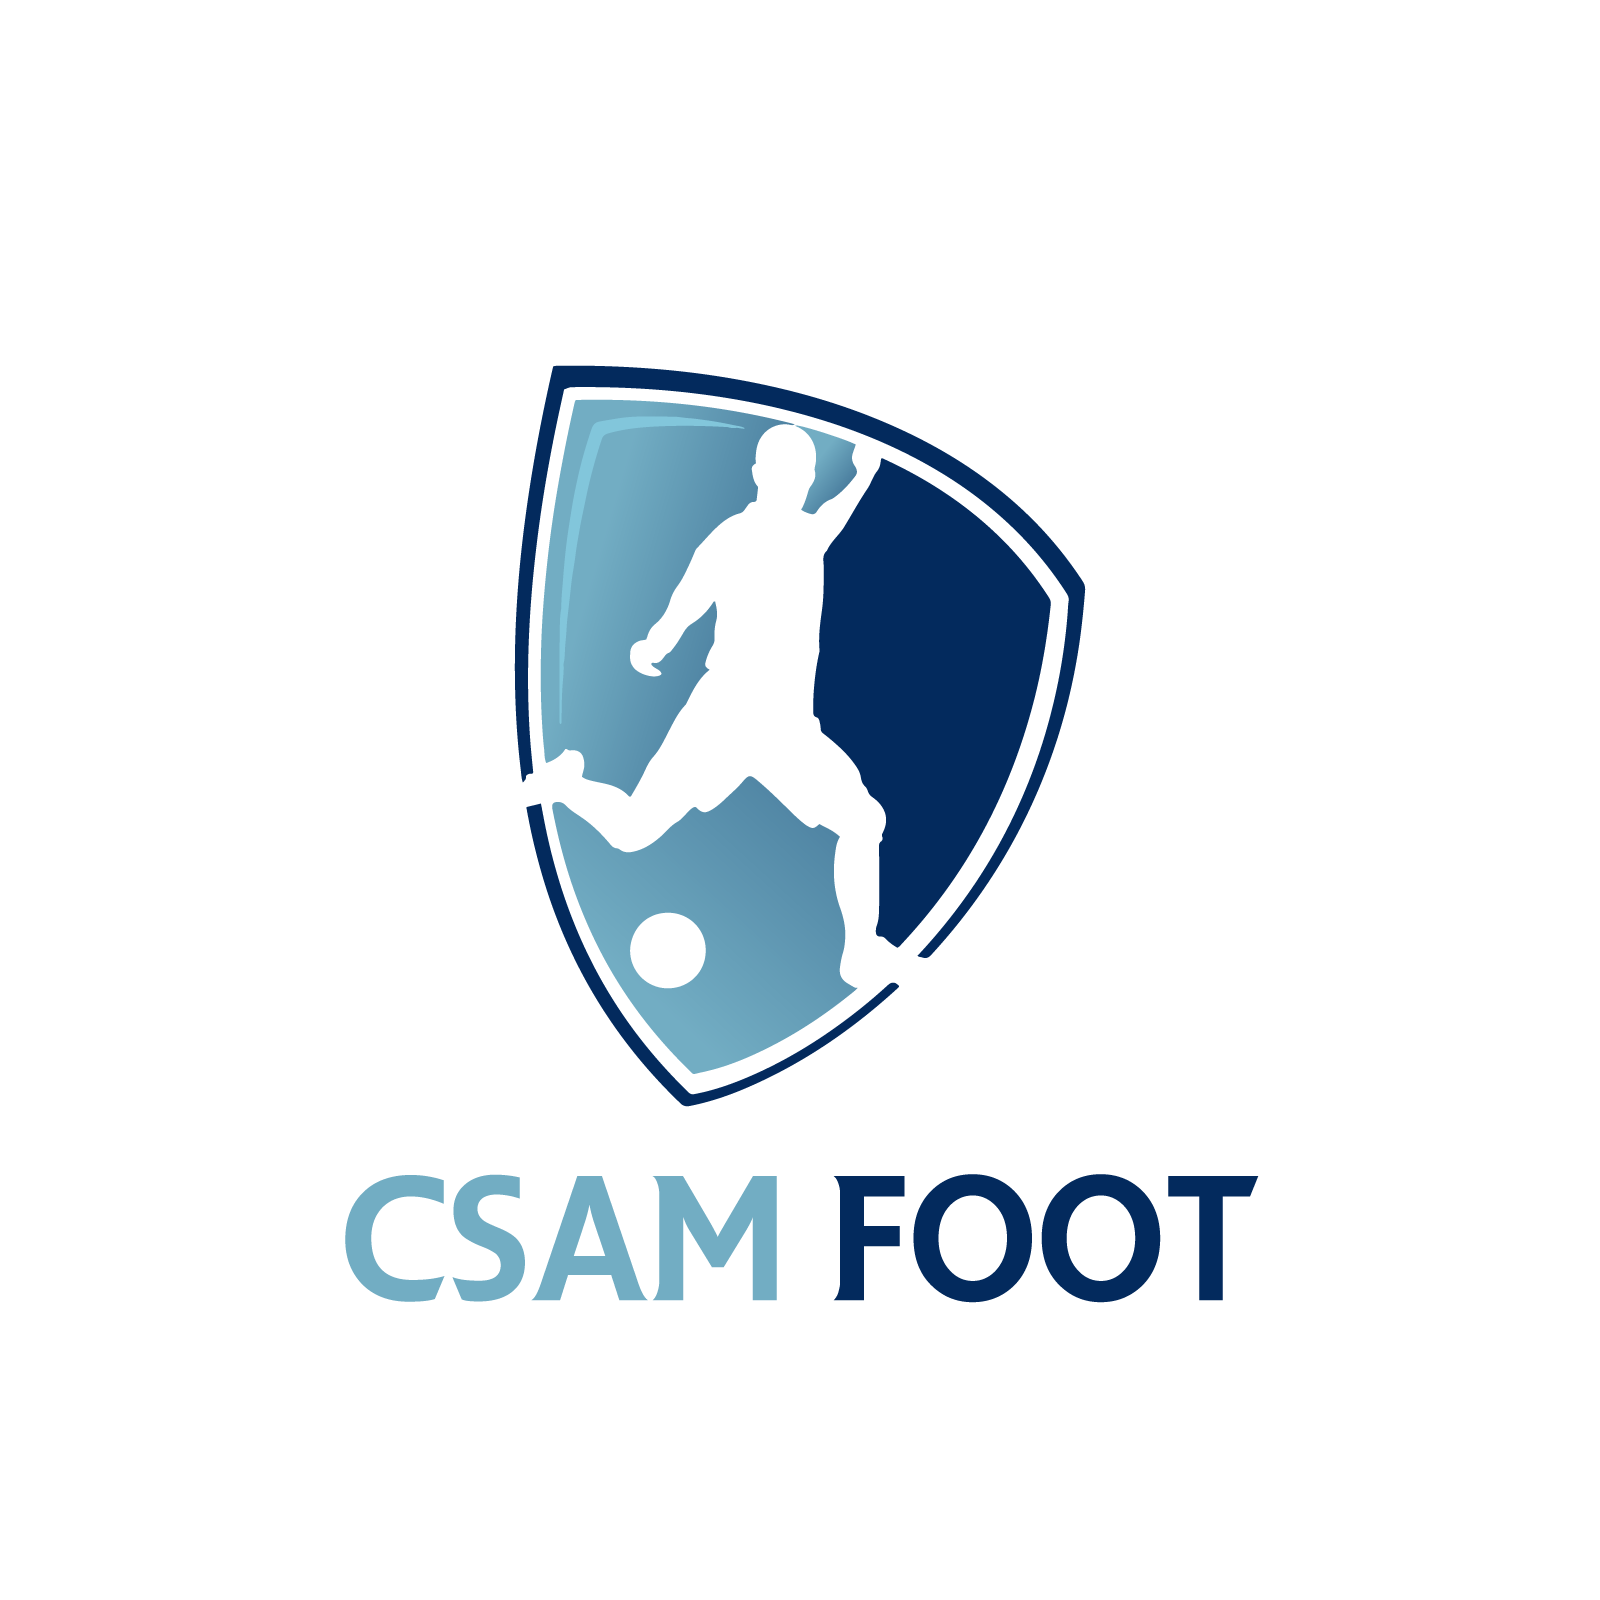
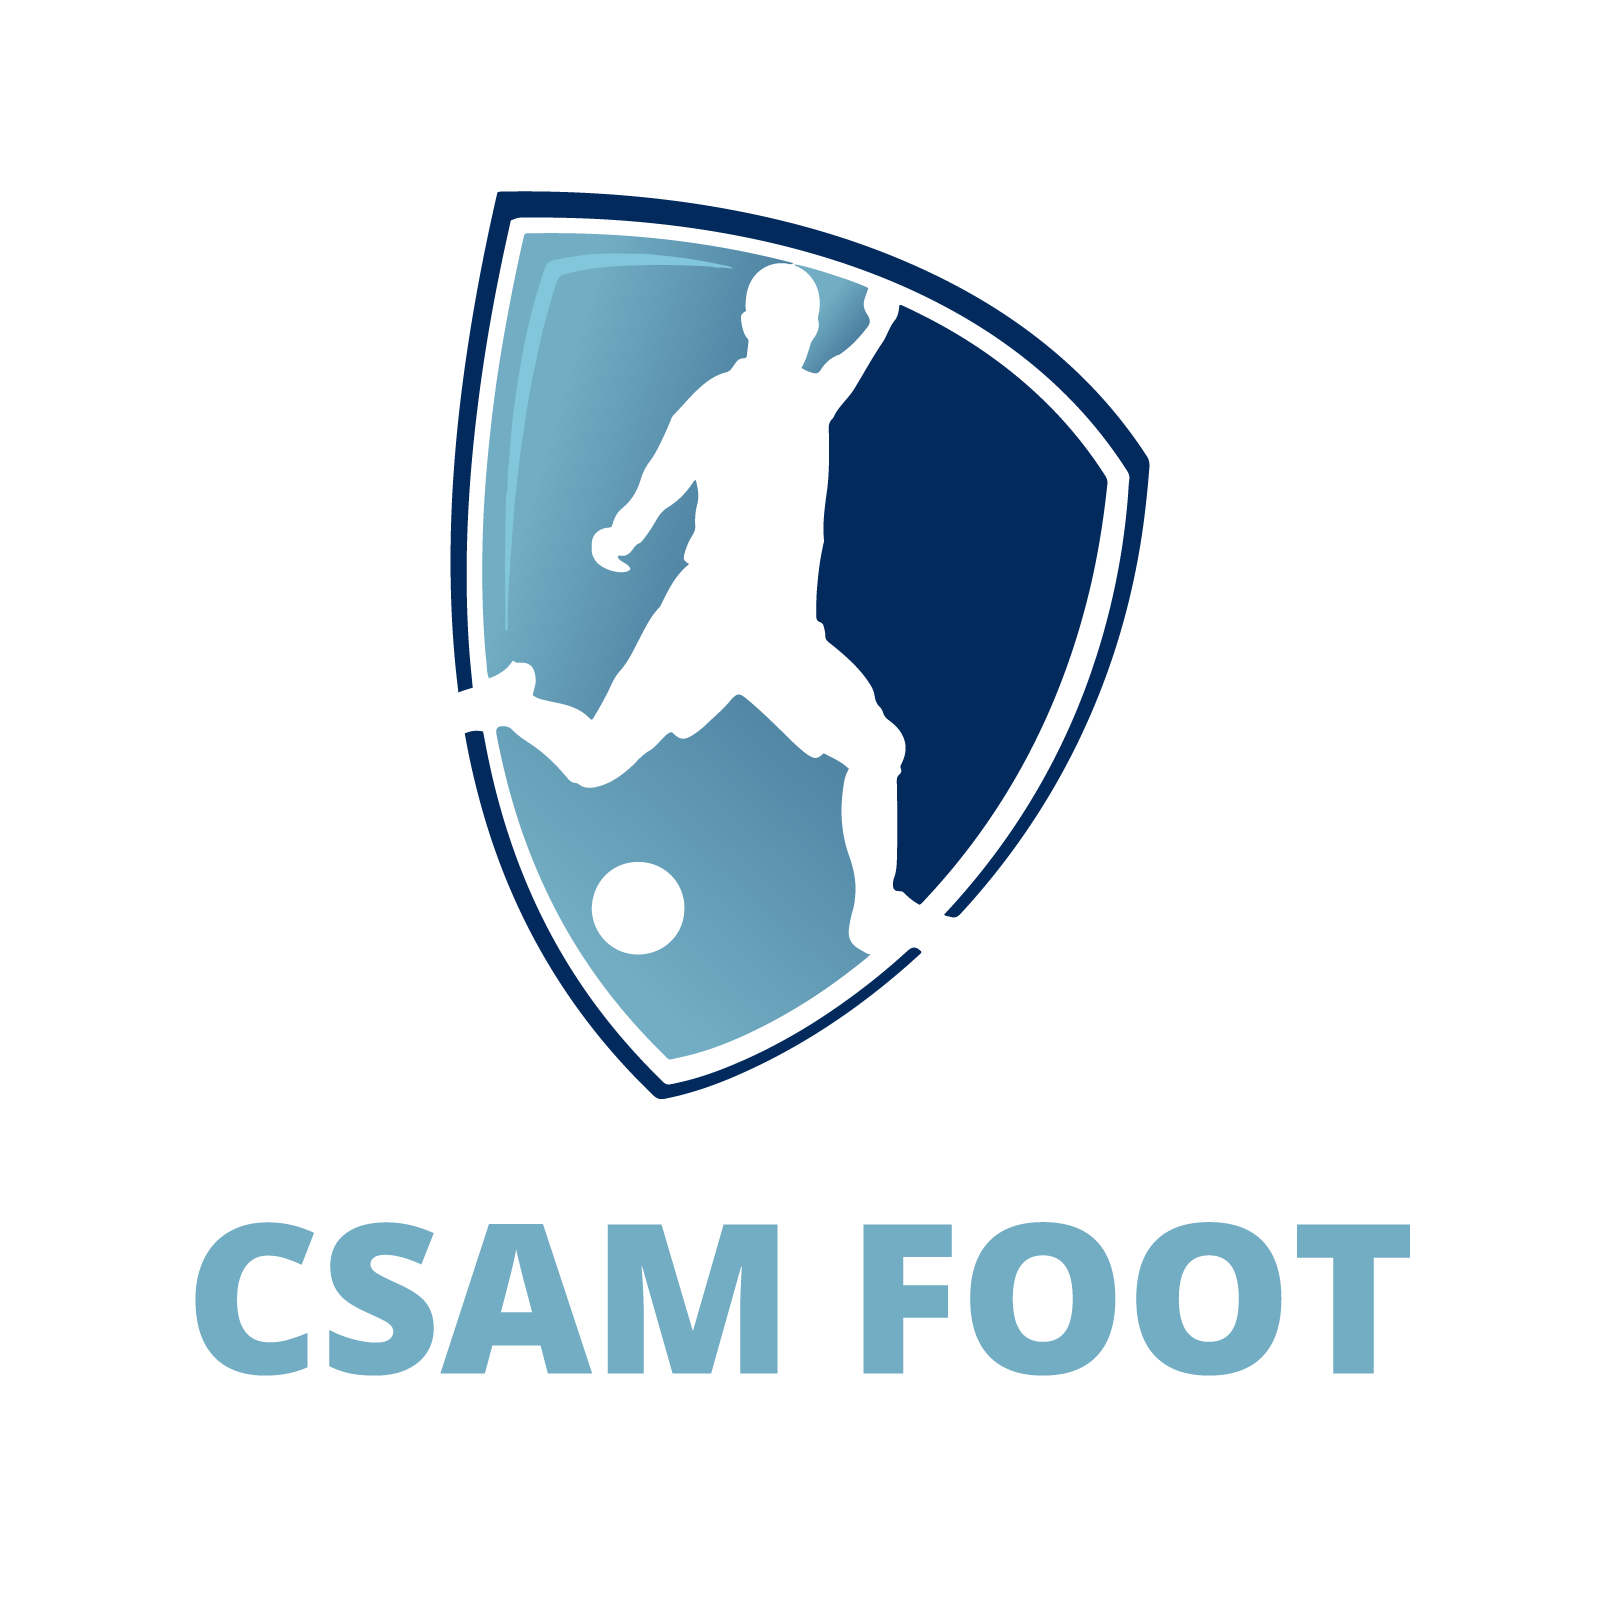
about us Page

Changed region(s): [[0.2812, 0.0938, 0.7188, 0.6875], [0.125, 0.7188, 0.9062, 0.875]]

diff --git a/index.html b/index.html
@@ -179,32 +179,41 @@
 
             <div class="card">
                 <div class="box">
-                    <img src="assets/area.jpg">
+                    <img src="assets/abdellah.png">
                     <div class="description-holder">
-                        <div class="text">Select your Delivery area</div>
-                        <p>Fill in the address where you want to be delivered</p>
+                        <div class="s-text">CSAM</div>
+                        <div class="text">ABONNEMENTS PARTICULIERS ENTREPRISE</div>
+                        <p>Fill in the address where you want to be delivered Fill in the address where you want to be
+                            delivered Fill in the address where you want to be delivered</p>
                     </div>
                 </div>
             </div>
 
             <div class="card">
                 <div class="box">
-                    <img src="assets/area.jpg">
                     <div class="description-holder">
-                        <div class="text">Select your Delivery area</div>
-                        <p>Fill in the address where you want to be delivered</p>
-                    </div>
+                        <div class="s-text">CSAM</div>
+                        <div class="text">ABONNEMENTS PARTICULIERS ENTREPRISE</div>
+                        <p>Fill in the address where you want to be delivered Fill in the address where you want to be
+                            delivered Fill in the address where you want to be delivered</p>
+                        </div>
+                        <img src="assets/abdellah.png">
                 </div>
             </div>
+
             <div class="card">
                 <div class="box">
-                    <img src="assets/area.jpg">
+                    <img src="assets/abdellah.png">
                     <div class="description-holder">
-                        <div class="text">Select your Delivery area</div>
-                        <p>Fill in the address where you want to be delivered</p>
+                        <div class="s-text">CSAM</div>
+                        <div class="text">ABONNEMENTS PARTICULIERS ENTREPRISE</div>
+                        <p>Fill in the address where you want to be delivered Fill in the address where you want to be
+                            delivered Fill in the address where you want to be delivered</p>
                     </div>
                 </div>
             </div>
+        </div>
+
 
         </div>
     </section>

diff --git a/css/style.css b/css/style.css
@@ -441,7 +441,7 @@ main {
     background-image: url("../assets/blueback.png");
     background-repeat: repeat;
     padding: 100px 0px;
-    height: 200vh;
+    height: 180vh;
 }
 
 .working .titre {
@@ -452,12 +452,12 @@ main {
 }
 
 .working .wrk-main {
-    margin: 80px;
+    margin: 50px;
 }
 
 .working .wrk-main .card {
-    width: 100%;
-    height: 350px;
+    width: 97%;
+    height: 400px;
     background: #fff;
     text-align: center;
     box-shadow: 6px 4px 4px rgba(43, 40, 40, 0.25);
@@ -468,35 +468,52 @@ main {
 .working .wrk-main .card .box {
     transition: all 0.6s ease;
     display: flex;
-    justify-content: flex-end;
+    justify-content: space-between;
+    
     align-items: center;
 }
 
 .working .wrk-main .card .box img {
-    margin-right: 50;
-    height: 160px;
-    width: auto;
+    height: 400px;
+    width: 400px;
 }
 
 .working .description-holder {
     background-color: #104D73;
-    height: 350px;
+    height: 400px;
     width: 70%;
 }
 
 .working .wrk-main .card .text {
     color: #fff;
-    font-size: 25px;
-    font-weight: 500;
-    margin-top: 35px;
-    padding-top: 10px;
-    font-family: 'Baloo 2', sans-serif;
+    text-transform: uppercase;
+    text-align: left;
+    font-size: 40px;
+    font-weight: 600;
+    margin-left: 100px;
+    margin-right: 80px;
+    margin-top: 0px;
 }
+
+.working .wrk-main .card .s-text {
+    color: rgba(212, 212, 212, 0.808);
+    text-transform: uppercase;
+    text-align: left;
+    font-size: 23px;
+    font-weight: 300;
+    margin-left: 110px;
+    margin-top: 60px;
+}
+
 
 .working .wrk-main .card p {
     color: #fff;
     font-size: 17px;
-    padding: 20px 90px;
+    text-align: left;
+    margin-left: 100px;
+    margin-top: 20px;
+    margin-right: 80px;
+    line-height: 25px;
 }
 
 

diff --git a/css/style_about.css b/css/style_about.css
@@ -259,25 +259,26 @@ a .links:hover {
 
 /*////////////////////////////////////////////////   about section styling   //////////////////////////////////////////////////////////////*/
 .about .about-main .part-2 {
-    width: 40%;
+    width: 45%;
 }
 
 .about .about-main .part-2 img {
-    height: 400px;
-    width: 400px;
+    height: 420px;
+    width: 420px;
     object-fit: cover;
     border-radius: 6px;
     box-shadow: 4px 4px 5px 5px rgba(119, 136, 153, 0.421);
-    border: 5px solid #2484bf;
-    border-radius: 50%;
+    border: 5px solid #72adc3;
+    /* border-radius: 50%; */
 }
 
 .about .about-main .part-1 {
-    width: 50%;
+    width: 55%;
 }
 
 .about .about-main .part-1 p {
     text-align: justify;
+    line-height: 2;
 }
 
 /* ///////////////////////////////////////////////  ourteam section styling   ////////////////////////////////////////////////////////////*/

diff --git a/about.html b/about.html
@@ -61,11 +61,11 @@
 
         <section class="about" id="about">
             <div class="largeur-cd">
-                <h2 class="titre">We are SIHA</h2>
+                <h2 class="titre">We are CSAM</h2>
                 <div class="line-title"></div>
                 <div class="about-main">
                     <div class="flex part-2">
-                        <img src="assets/bigSIHA.png" alt="">
+                        <img src="assets/csam-foot.png" alt="">
                     </div>
                     <div class="flex part-1">
                         <p><b>SIHA</b> is a Moroccan quick-commerce start-up founded in Casablanca in 2020. It is an
